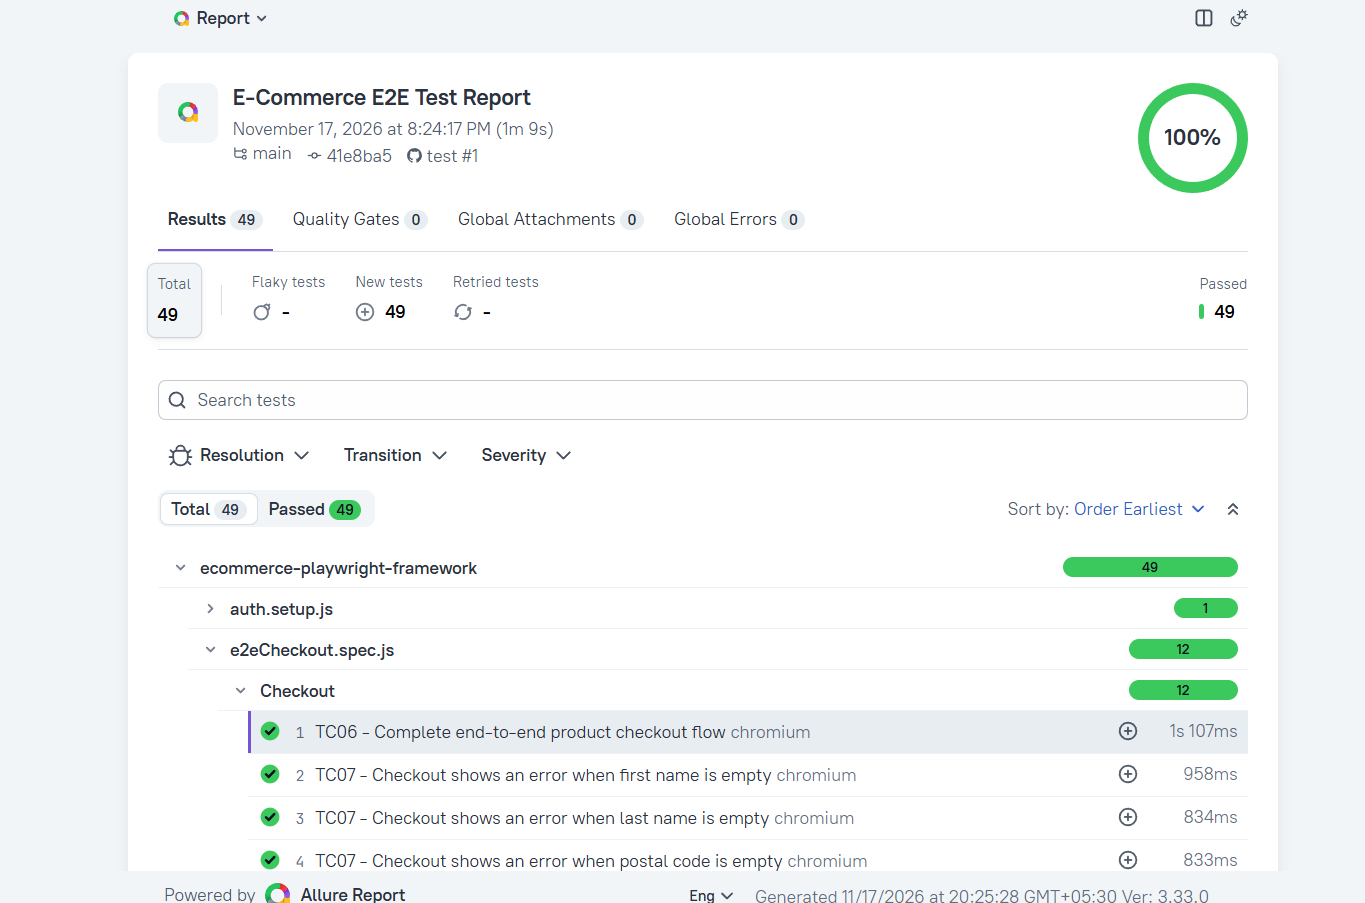
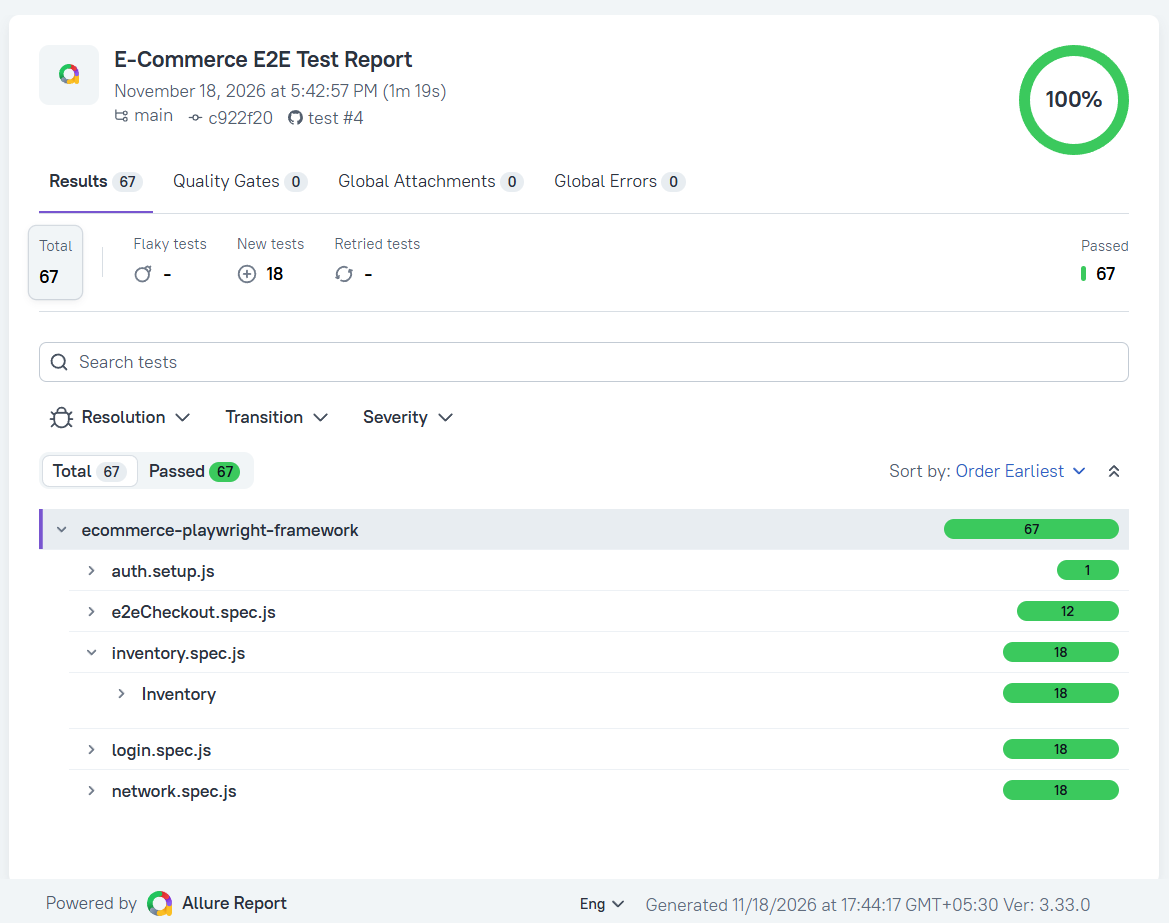
feat: update README to include network resilience testing details and add network mocking script to package.json

diff --git a/README.md b/README.md
@@ -3,7 +3,7 @@
 # 🛒 E-Commerce End-to-End UI Automation Framework
 
 **A production-style test automation framework built with Playwright and JavaScript.**
-It tests a real e-commerce flow from login to order confirmation on three browsers, and publishes a live Allure report on every push.
+It tests a real e-commerce flow from login to order confirmation on three browsers, checks how the site copes with network failures, and publishes a live Allure report on every push.
 
 [![Playwright Tests](https://github.com/Pubudugunawardhana/E-Commerce-End-to-End-UI-Automation-Framework/actions/workflows/playwright.yml/badge.svg)](https://github.com/Pubudugunawardhana/E-Commerce-End-to-End-UI-Automation-Framework/actions/workflows/playwright.yml)
 [![Allure Report](https://img.shields.io/badge/Allure-Live%20Report-orange?logo=qameta&logoColor=white)](https://pubudugunawardhana.github.io/E-Commerce-End-to-End-UI-Automation-Framework/)
@@ -27,6 +27,7 @@ It tests a real e-commerce flow from login to order confirmation on three browse
 - [Highlights](#-highlights)
 - [Live report](#-live-report)
 - [Test coverage](#-test-coverage)
+- [Network mocking](#-network-mocking)
 - [Architecture](#-architecture)
 - [Quick start](#-quick-start)
 - [Commands](#-commands)
@@ -62,7 +63,7 @@ The latest results are always online. No setup is needed:
 **👉 [pubudugunawardhana.github.io/E-Commerce-End-to-End-UI-Automation-Framework](https://pubudugunawardhana.github.io/E-Commerce-End-to-End-UI-Automation-Framework/)**
 
 <p align="center">
-  <img src="docs/images/allure-report.png" alt="Allure report showing 49 of 49 tests passed" width="850">
+  <img src="docs/images/allure-report.png" alt="Allure report showing 67 of 67 tests passed" width="850">
 </p>
 
 ---
@@ -92,6 +93,34 @@ That makes **22 tests per browser × 3 browsers = 66 tests**, plus 1 login setup
 
 ---
 
+## 📡 Network mocking
+
+Real users don't always have a perfect connection. These tests use Playwright's network control to check how the shop behaves when things go wrong:
+
+| Technique | Playwright API | Used in |
+|---|---|---|
+| **Fail requests:** abort them, or return a mocked HTTP error | `page.route()` + `route.abort()` / `route.fulfill()` | TC08 |
+| **Slow network:** hold every request before letting it through | `page.route()` + `route.continue()` | TC09 |
+| **Offline mode:** cut the connection mid-session | `context.setOffline(true)` | TC10 |
+| **Monitoring:** record failed responses and uncaught errors | `page.on('response')`, `page.on('requestfailed')`, `page.on('pageerror')` | TC11 |
+
+The helpers live in [`utils/network.js`](ecommerce-playwright-framework/utils/network.js), and the failure scenarios are data-driven:
+
+```json
+{
+  "title": "the error-reporting service returns HTTP 503",
+  "urlPattern": "backtrace\\.io",
+  "status": 503
+}
+```
+
+Leave out `status` (or set it to `null`) to abort the request instead. Each test also checks that its mock actually intercepted requests, so a mock that silently matches nothing can't produce a false pass.
+
+> [!NOTE]
+> TC11 only fails on problems with the site under test. Third-party failures (Sauce Demo's error-reporting service already returns HTTP 401) are attached to the report as `network-problems.json` for visibility. Requests the browser cancels itself, for example when the page changes, are ignored.
+
+---
+
 ## 🏗 Architecture
 
 ```mermaid
@@ -100,6 +129,8 @@ flowchart LR
     F --> P["🧱 Page Objects<br/><i>pages/*.js</i>"]
     T --> D["📋 Test Data<br/><i>testData.json</i>"]
     T --> E["🔐 Environment<br/><i>.env</i>"]
+    T --> N["📡 Network helpers<br/><i>network.js</i>"]
+    N -. "mock · delay · monitor" .-> B
     P --> B(("🌐 Browser<br/>Chromium · Firefox · WebKit"))
 ```
 
@@ -150,6 +181,7 @@ npm test
 |---|---|
 | `npm test` | Run every test on all three browsers |
 | `npm run test:chromium` | Run on one browser (`test:firefox` and `test:webkit` also exist) |
+| `npm run test:network` | Run only the network mocking tests (TC08–TC11) |
 | `npm run test:headed` | Watch the browser while the tests run |
 | `npm run test:ui` | Open Playwright's interactive UI mode |
 | `npm run test:debug` | Step through a test with the Playwright Inspector |
